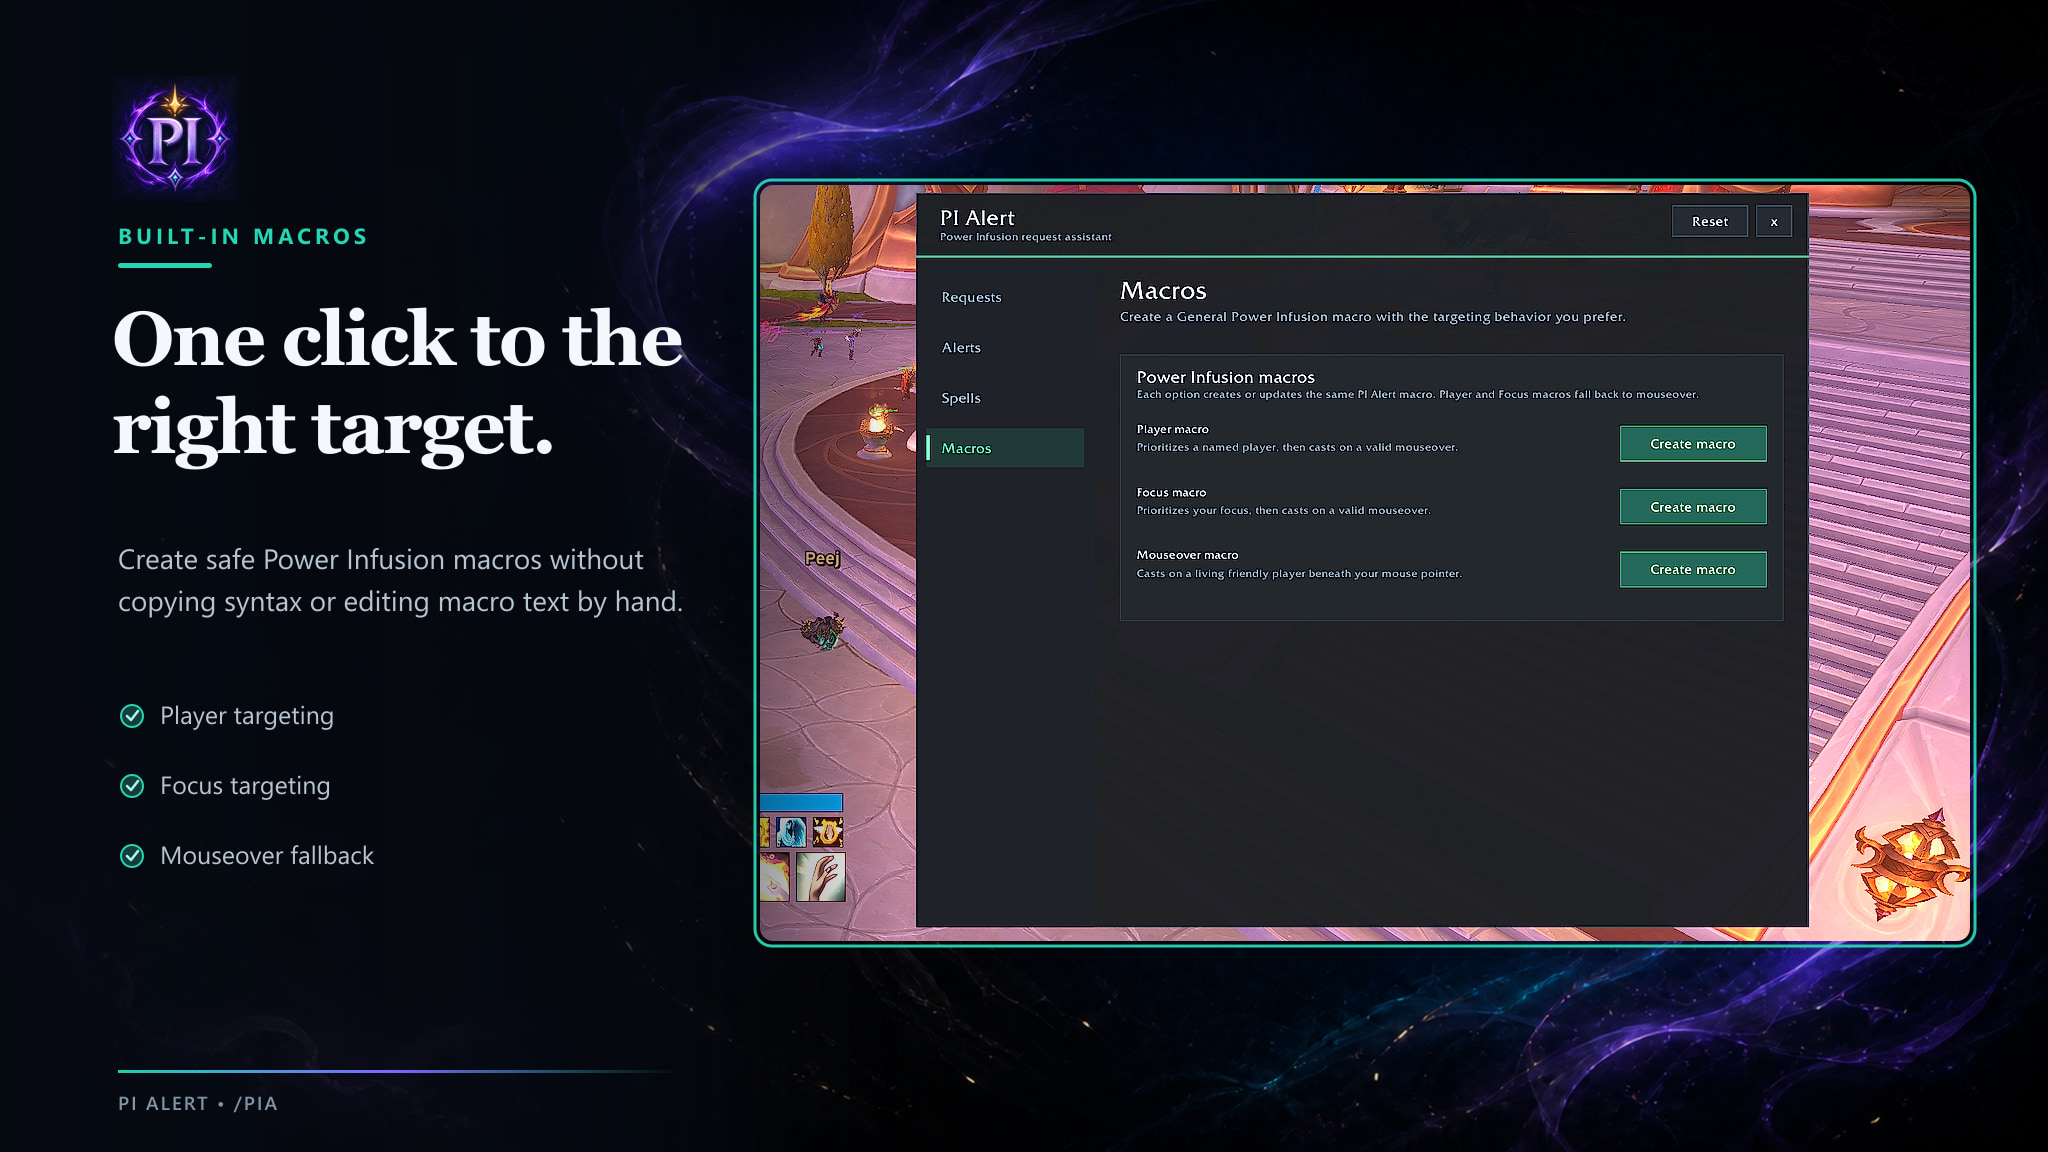
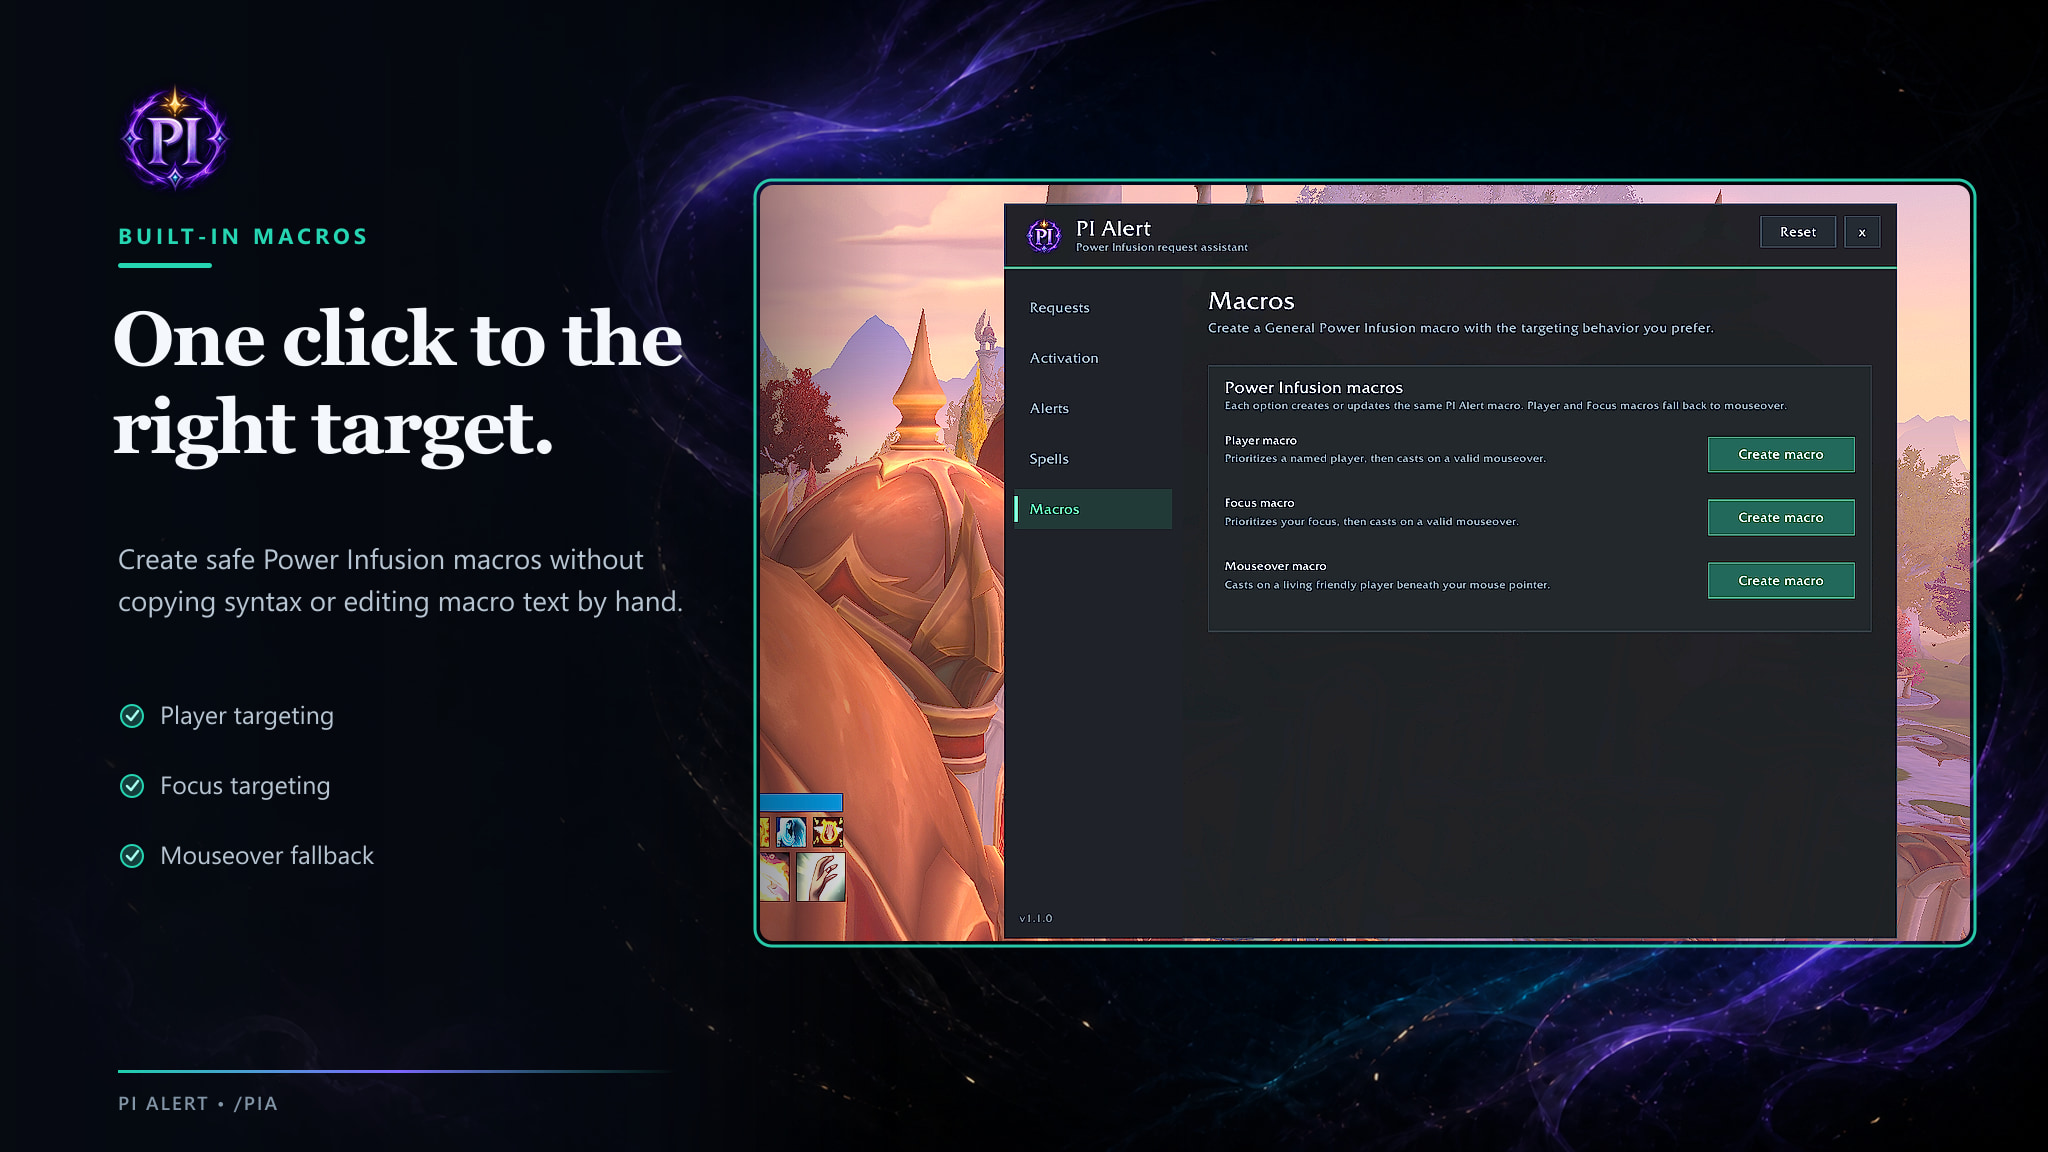
docs: refresh CurseForge gallery for activation
Regenerate the CurseForge gallery from the current interface screenshots, add an Activation feature slide, reorder the gallery, and document the updated screenshot set and feathered logo asset.

Changed region(s): [[0.3438, 0.1562, 0.9688, 0.8438], [0.0312, 0.0625, 0.125, 0.1875]]

diff --git a/Branding/CurseForge/build-gallery.js b/Branding/CurseForge/build-gallery.js
@@ -4,7 +4,7 @@ const sharp = require("sharp");
 const ROOT = __dirname;
 const OUT = path.join(ROOT, "gallery");
 const BACKGROUND = path.join(ROOT, "assets", "gallery-background-frameless.png");
-const LOGO = path.join(ROOT, "assets", "pialert-mark.png");
+const LOGO = path.join(ROOT, "assets", "pialert-mark-feathered.png");
 const SCREENSHOTS = "C:\\Program Files (x86)\\World of Warcraft\\_retail_\\Screenshots";
 
 const WIDTH = 2048;
@@ -36,21 +36,8 @@ const slides = [
     caption: "See the request. Find the player. Cast Power Infusion.",
   },
   {
-    output: "02-alerts.jpg",
-    source: "WoWScrnShot_082726_170024.jpg",
-    crop: { left: 2659, top: 125, width: 1512, height: 945 },
-    shot: { x: 760, y: 185, width: 1210, height: 756 },
-    eyebrow: "CUSTOM ALERTS",
-    title: ["Never miss", "a PI request."],
-    body: [
-      "Choose animated raidframe glows, icons,",
-      "cooldown swipes, sounds and a movable aura.",
-    ],
-    bullets: ["Pixel and AutoCast glows", "PI or tracked-spell icons", "Whisper-only sound controls"],
-  },
-  {
-    output: "03-requests.jpg",
-    source: "WoWScrnShot_082726_170021.jpg",
+    output: "02-requests.jpg",
+    source: "WoWScrnShot_083126_111855.jpg",
     crop: { left: 2659, top: 125, width: 1512, height: 945 },
     shot: { x: 760, y: 185, width: 1210, height: 756 },
     eyebrow: "REQUEST CONTROL",
@@ -62,8 +49,34 @@ const slides = [
     bullets: ["Custom whisper phrases", "Group or priority-player rules", "Configurable fallback behavior"],
   },
   {
-    output: "04-spells.jpg",
-    source: "WoWScrnShot_082726_170044.jpg",
+    output: "03-activation.jpg",
+    source: "WoWScrnShot_083126_111857.jpg",
+    crop: { left: 2659, top: 125, width: 1512, height: 945 },
+    shot: { x: 760, y: 185, width: 1210, height: 756 },
+    eyebrow: "SMART ACTIVATION",
+    title: ["PI alerts,", "only where", "you want them."],
+    body: [
+      "Choose which priest role and content types",
+      "should activate PI Alert for you.",
+    ],
+    bullets: ["Healer or DPS roles", "Dungeon and raid difficulties", "Optional PvP, delves and open world"],
+  },
+  {
+    output: "04-alerts.jpg",
+    source: "WoWScrnShot_083126_111859.jpg",
+    crop: { left: 2659, top: 125, width: 1512, height: 945 },
+    shot: { x: 760, y: 185, width: 1210, height: 756 },
+    eyebrow: "CUSTOM ALERTS",
+    title: ["Never miss", "a PI request."],
+    body: [
+      "Choose animated raidframe glows, icons,",
+      "cooldown swipes, sounds and a movable aura.",
+    ],
+    bullets: ["Pixel and AutoCast glows", "PI or tracked-spell icons", "Whisper-only sound controls"],
+  },
+  {
+    output: "05-spells.jpg",
+    source: "WoWScrnShot_083126_111901.jpg",
     crop: { left: 2659, top: 125, width: 1512, height: 945 },
     shot: { x: 760, y: 185, width: 1210, height: 756 },
     eyebrow: "COOLDOWN TRACKING",
@@ -75,7 +88,20 @@ const slides = [
     bullets: ["Class-organized presets", "Custom spell support", "Multiple aura IDs per cooldown"],
   },
   {
-    output: "05-right-click.jpg",
+    output: "06-macros.jpg",
+    source: "WoWScrnShot_083126_111903.jpg",
+    crop: { left: 2659, top: 125, width: 1512, height: 945 },
+    shot: { x: 760, y: 185, width: 1210, height: 756 },
+    eyebrow: "BUILT-IN MACROS",
+    title: ["One click to the", "right target."],
+    body: [
+      "Create safe Power Infusion macros without",
+      "copying syntax or editing macro text by hand.",
+    ],
+    bullets: ["Player targeting", "Focus targeting", "Mouseover fallback"],
+  },
+  {
+    output: "07-right-click.jpg",
     source: "WoWScrnShot_082726_214545.jpg",
     crop: { left: 2300, top: 200, width: 1600, height: 1000 },
     shot: { x: 760, y: 185, width: 1210, height: 756 },
@@ -86,19 +112,6 @@ const slides = [
       "priority or set the named target in your PI macro.",
     ],
     bullets: ["Dedicated PI Alert menu section", "Toggle Specific Players instantly", "Set Player macro targets"],
-  },
-  {
-    output: "06-macros.jpg",
-    source: "WoWScrnShot_082726_170047.jpg",
-    crop: { left: 2659, top: 125, width: 1512, height: 945 },
-    shot: { x: 760, y: 185, width: 1210, height: 756 },
-    eyebrow: "BUILT-IN MACROS",
-    title: ["One click to the", "right target."],
-    body: [
-      "Create safe Power Infusion macros without",
-      "copying syntax or editing macro text by hand.",
-    ],
-    bullets: ["Player targeting", "Focus targeting", "Mouseover fallback"],
   },
 ];
 
@@ -212,7 +225,7 @@ async function buildSlide(slide) {
     .composite([
       { input: screenshot, left: slide.shot.x, top: slide.shot.y },
       { input: overlaySvg(slide), left: 0, top: 0 },
-      { input: logo, left: 112, top: 76, blend: "screen" },
+      { input: logo, left: 112, top: 76 },
     ])
     .jpeg({ quality: 92, chromaSubsampling: "4:4:4", mozjpeg: true })
     .toFile(path.join(OUT, slide.output));

diff --git a/Branding/CurseForge/README.md b/Branding/CurseForge/README.md
@@ -4,7 +4,7 @@ This folder contains the reusable assets and build script for the PI Alert Curse
 
 ## Build
 
-The script expects the six original World of Warcraft screenshots in the local retail screenshot folder. It deliberately composites the real addon interface instead of recreating UI text with generative tools.
+The script expects the current seven World of Warcraft screenshots in the local retail screenshot folder. It deliberately composites the real addon interface instead of recreating UI text with generative tools.
 
 ```bash
 cd Branding/CurseForge
@@ -17,11 +17,12 @@ Final 2048×1152 JPEGs are written to `Branding/CurseForge/gallery`.
 ## Source screenshots
 
 - `WoWScrnShot_082726_212445.jpg` — live combat PI alert
-- `WoWScrnShot_082726_170024.jpg` — Alerts
-- `WoWScrnShot_082726_170021.jpg` — Requests
-- `WoWScrnShot_082726_170044.jpg` — Spells
+- `WoWScrnShot_083126_111855.jpg` — Requests
+- `WoWScrnShot_083126_111857.jpg` — Activation
+- `WoWScrnShot_083126_111859.jpg` — Alerts
+- `WoWScrnShot_083126_111901.jpg` — Spells
+- `WoWScrnShot_083126_111903.jpg` — Macros
 - `WoWScrnShot_082726_214545.jpg` — right-click controls
-- `WoWScrnShot_082726_170047.jpg` — Macros
 
 The 5120×1440 source screenshots remain in the World of Warcraft screenshot folder and are not committed to keep the repository lightweight.
 
